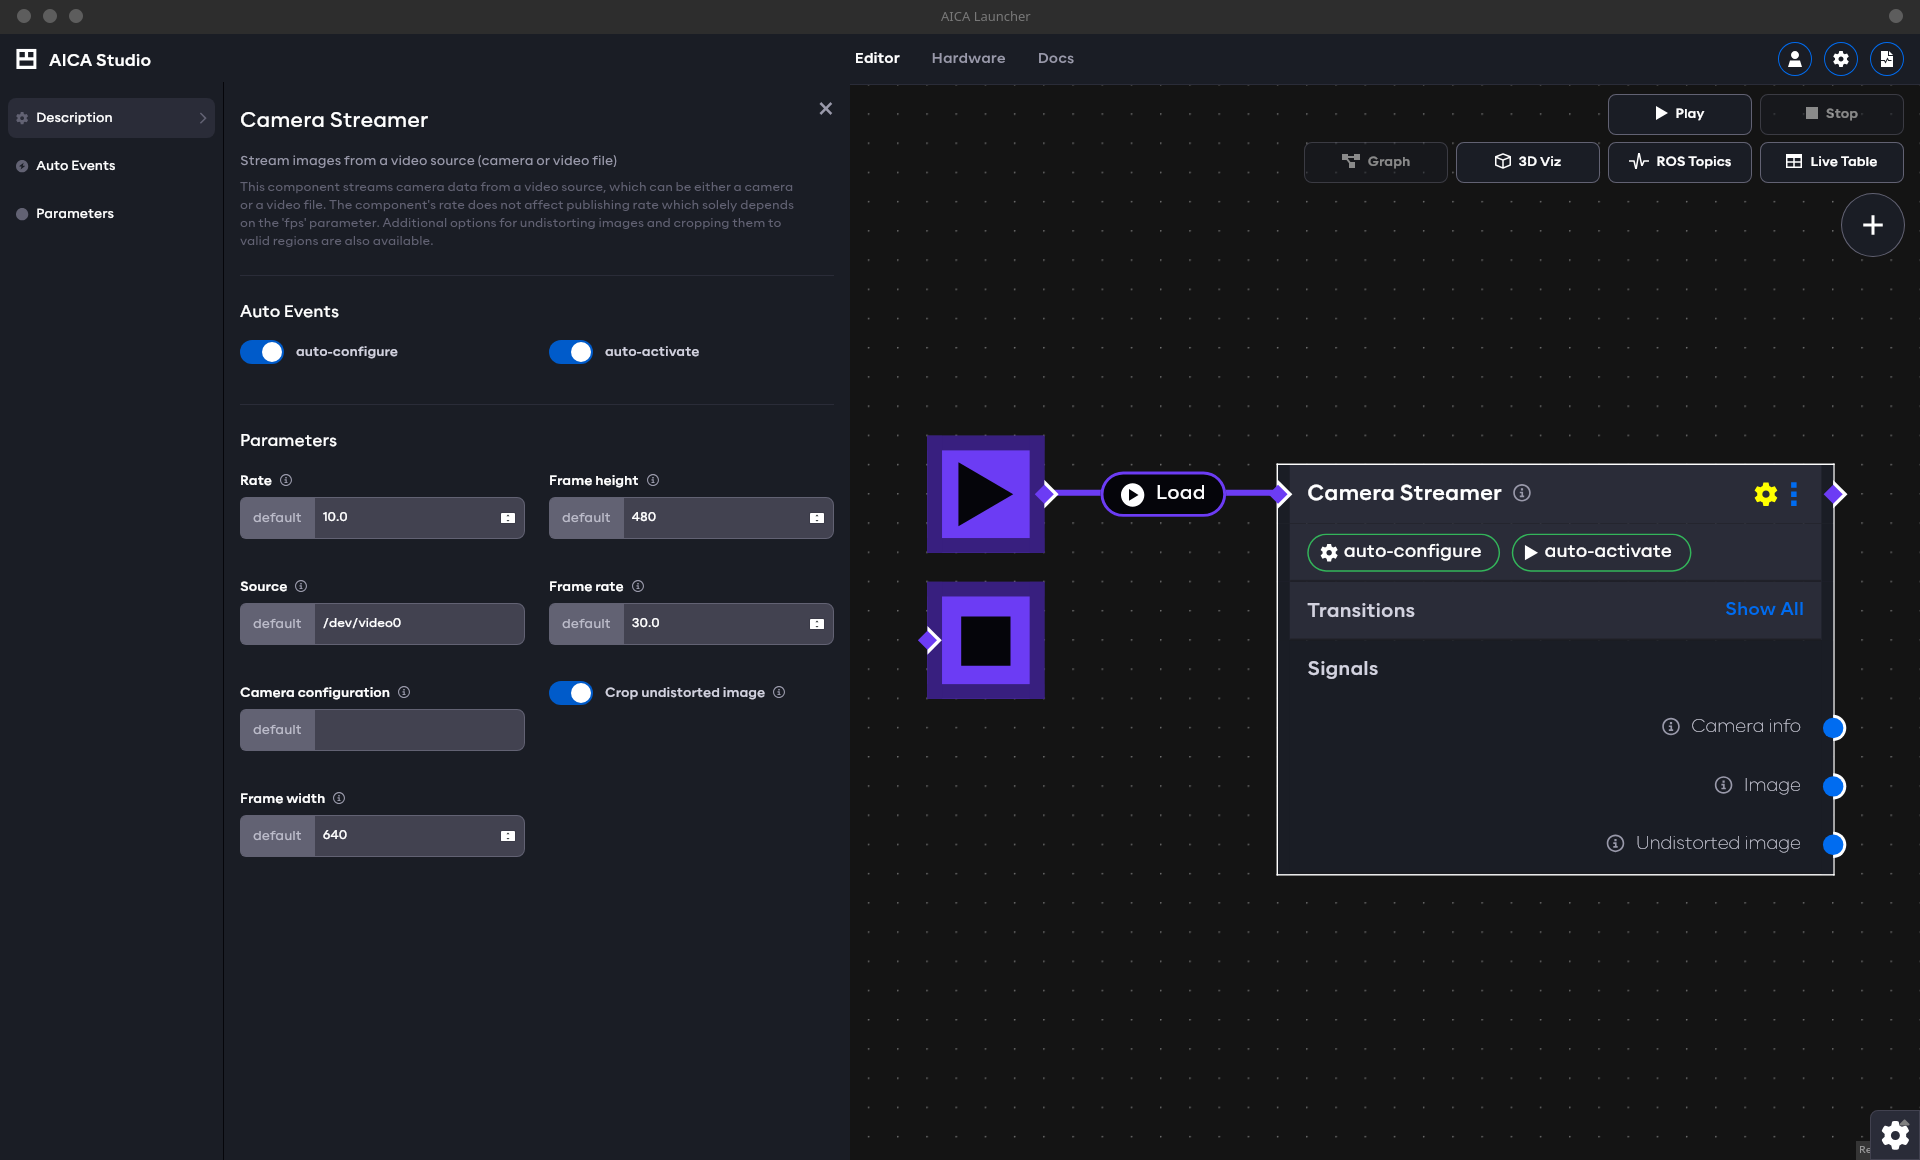
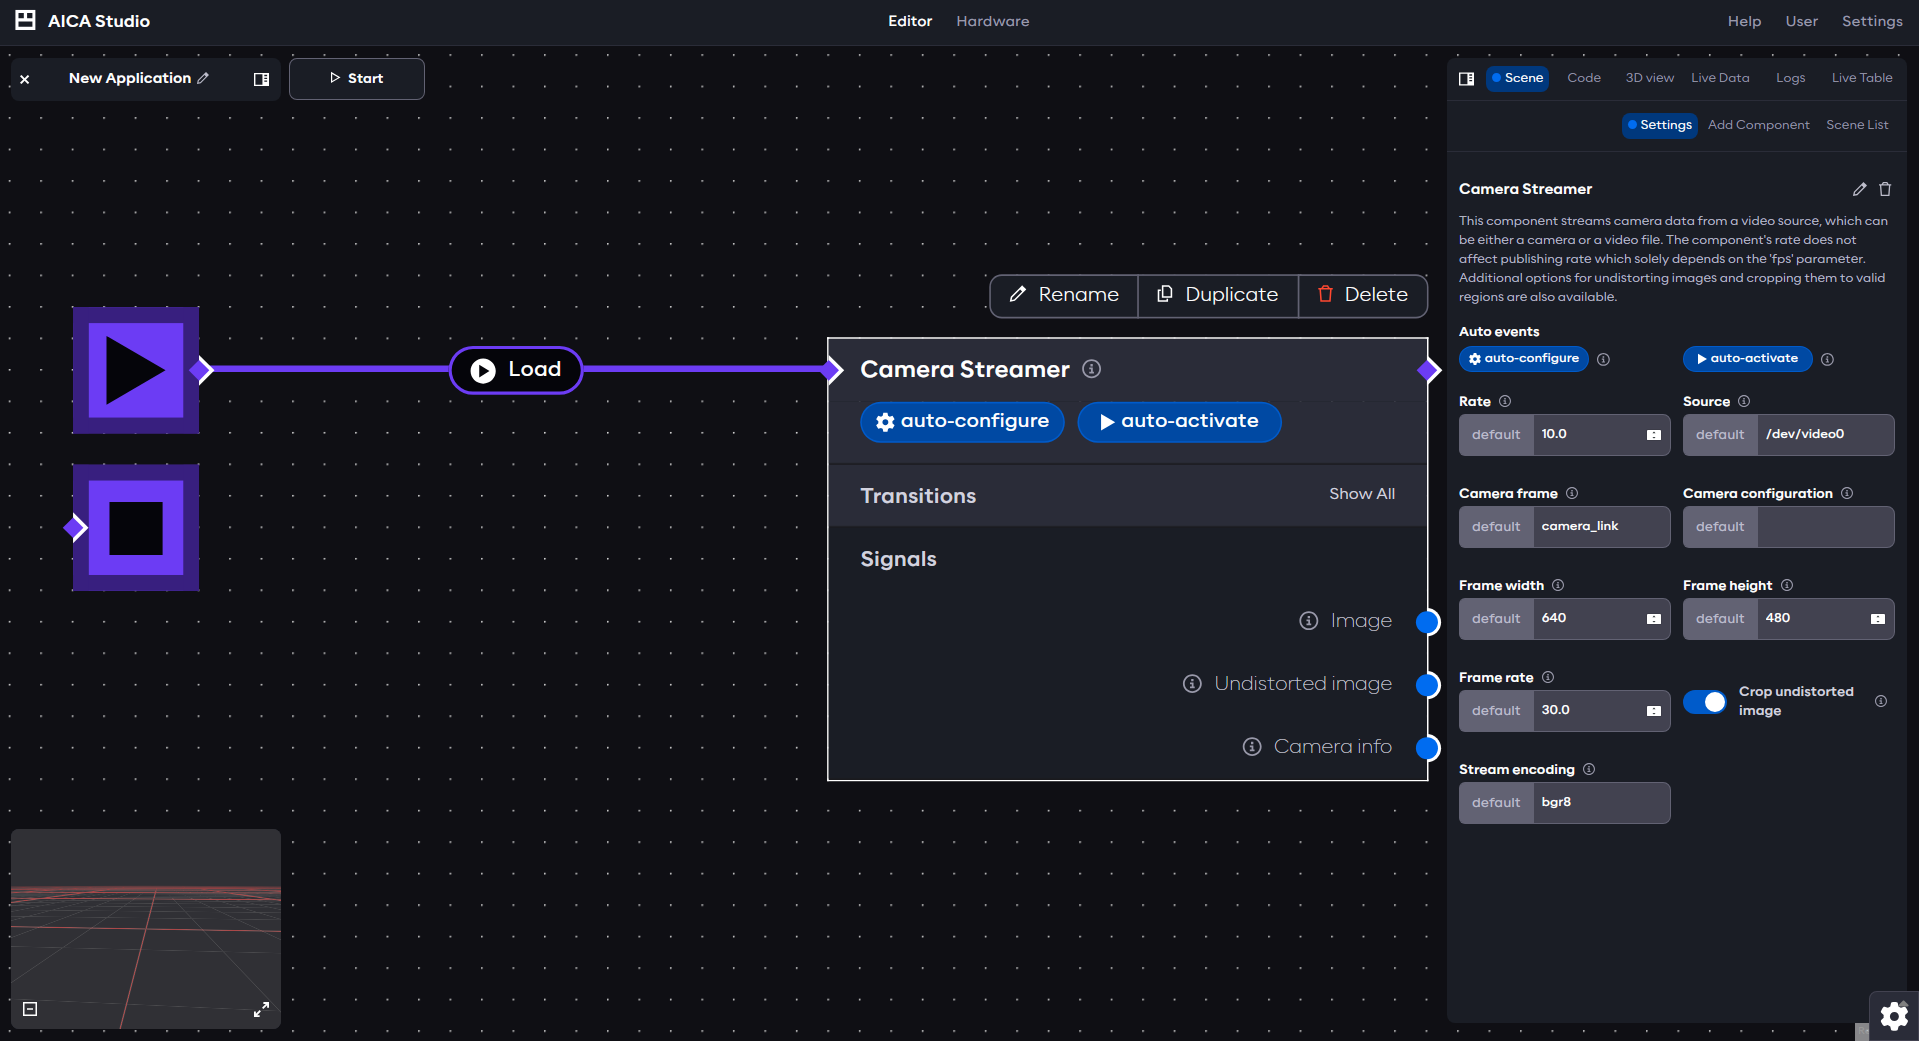
v5 updates

diff --git a/docs/core/examples/guides/camera-streamer.md b/docs/core/examples/guides/camera-streamer.md
@@ -25,7 +25,7 @@ of a camera device.
 
 ## AICA Launcher configuration
 
-Start AICA Launcher, select AICA Core v4.4.2 or higher, and add the `core-vision` package to your configuration.
+Start AICA Launcher and add the `core-vision` package to your configuration.
 
 Select **Launch AICA Studio** to proceed.
 
@@ -47,7 +47,7 @@ By this point, you should have something like the following:
   <img src={cameraStreamerExample} alt="Default CameraStreamer configuration" />
 </div>
 
-Before pressing play, let us go through the parameters first. You should see:
+Before pressing Start, let us go through the parameters first. You should see:
 
 - **Rate**: This is the component's rate, but it has no effect on the operation of `CameraStreamer`.
 - **Source**: Path to the source device or video file. If using a camera, this is typically of the form `/dev/videoX`,
@@ -84,7 +84,7 @@ In newer versions of `CameraStreamer` you will also have access to:
 
 Once you have selected an appropriate **source**:
 
-1. Press **Play** to start the application.
+1. Press **Start** to start the application.
 2. To see the live camera feed, click on the gear icon on the bottom right and select **Launch RViz**.
 3. In RViz, select _Add > By topic > /camera_streamer/image > Image_. This adds a panel that shows the live image. The
 undistorted image (if available) can also be found under _/camera_streamer/undistorted_image > Image_.
@@ -101,9 +101,9 @@ You may use the following YAML snippet containing the full application:
 <details>
 <summary>Application YAML</summary>
 ```yaml
-schema: 2-0-4
+schema: 2-0-6
 dependencies:
-  core: v4.4.2
+  core: v5.0.0
 on_start:
   load:
     component: camera_streamer

diff --git a/docs/core_versioned_docs/version-v4/examples/guides/camera-streamer.md b/docs/core_versioned_docs/version-v4/examples/guides/camera-streamer.md
@@ -34,12 +34,11 @@ Select **Launch AICA Studio** to proceed.
 Start by creating a new application.
 
 1. Remove the hardware interface that is included in new applications by default.
-2. From the `Scene` menu, use the `Add Component` tab and look for the **Camera Streamer** component either by searching
+2. Click on the `+` icon on the top right, and look for the **Camera Streamer** component either by searching
 or by manually going under the `Core Vision Components` menu. Click to add it to the graph.
 3. Next, connect the component to the start block.
-4. Enable **auto-configure** and **auto-activate**.
-5. With your new component selected, make sure you are in the `Scene` menu, where you may find all the available
-component parameters.
+4. Open the component settings.
+5. Enable **auto-configure** and **auto-activate**.
 
 By this point, you should have something like the following:
 
